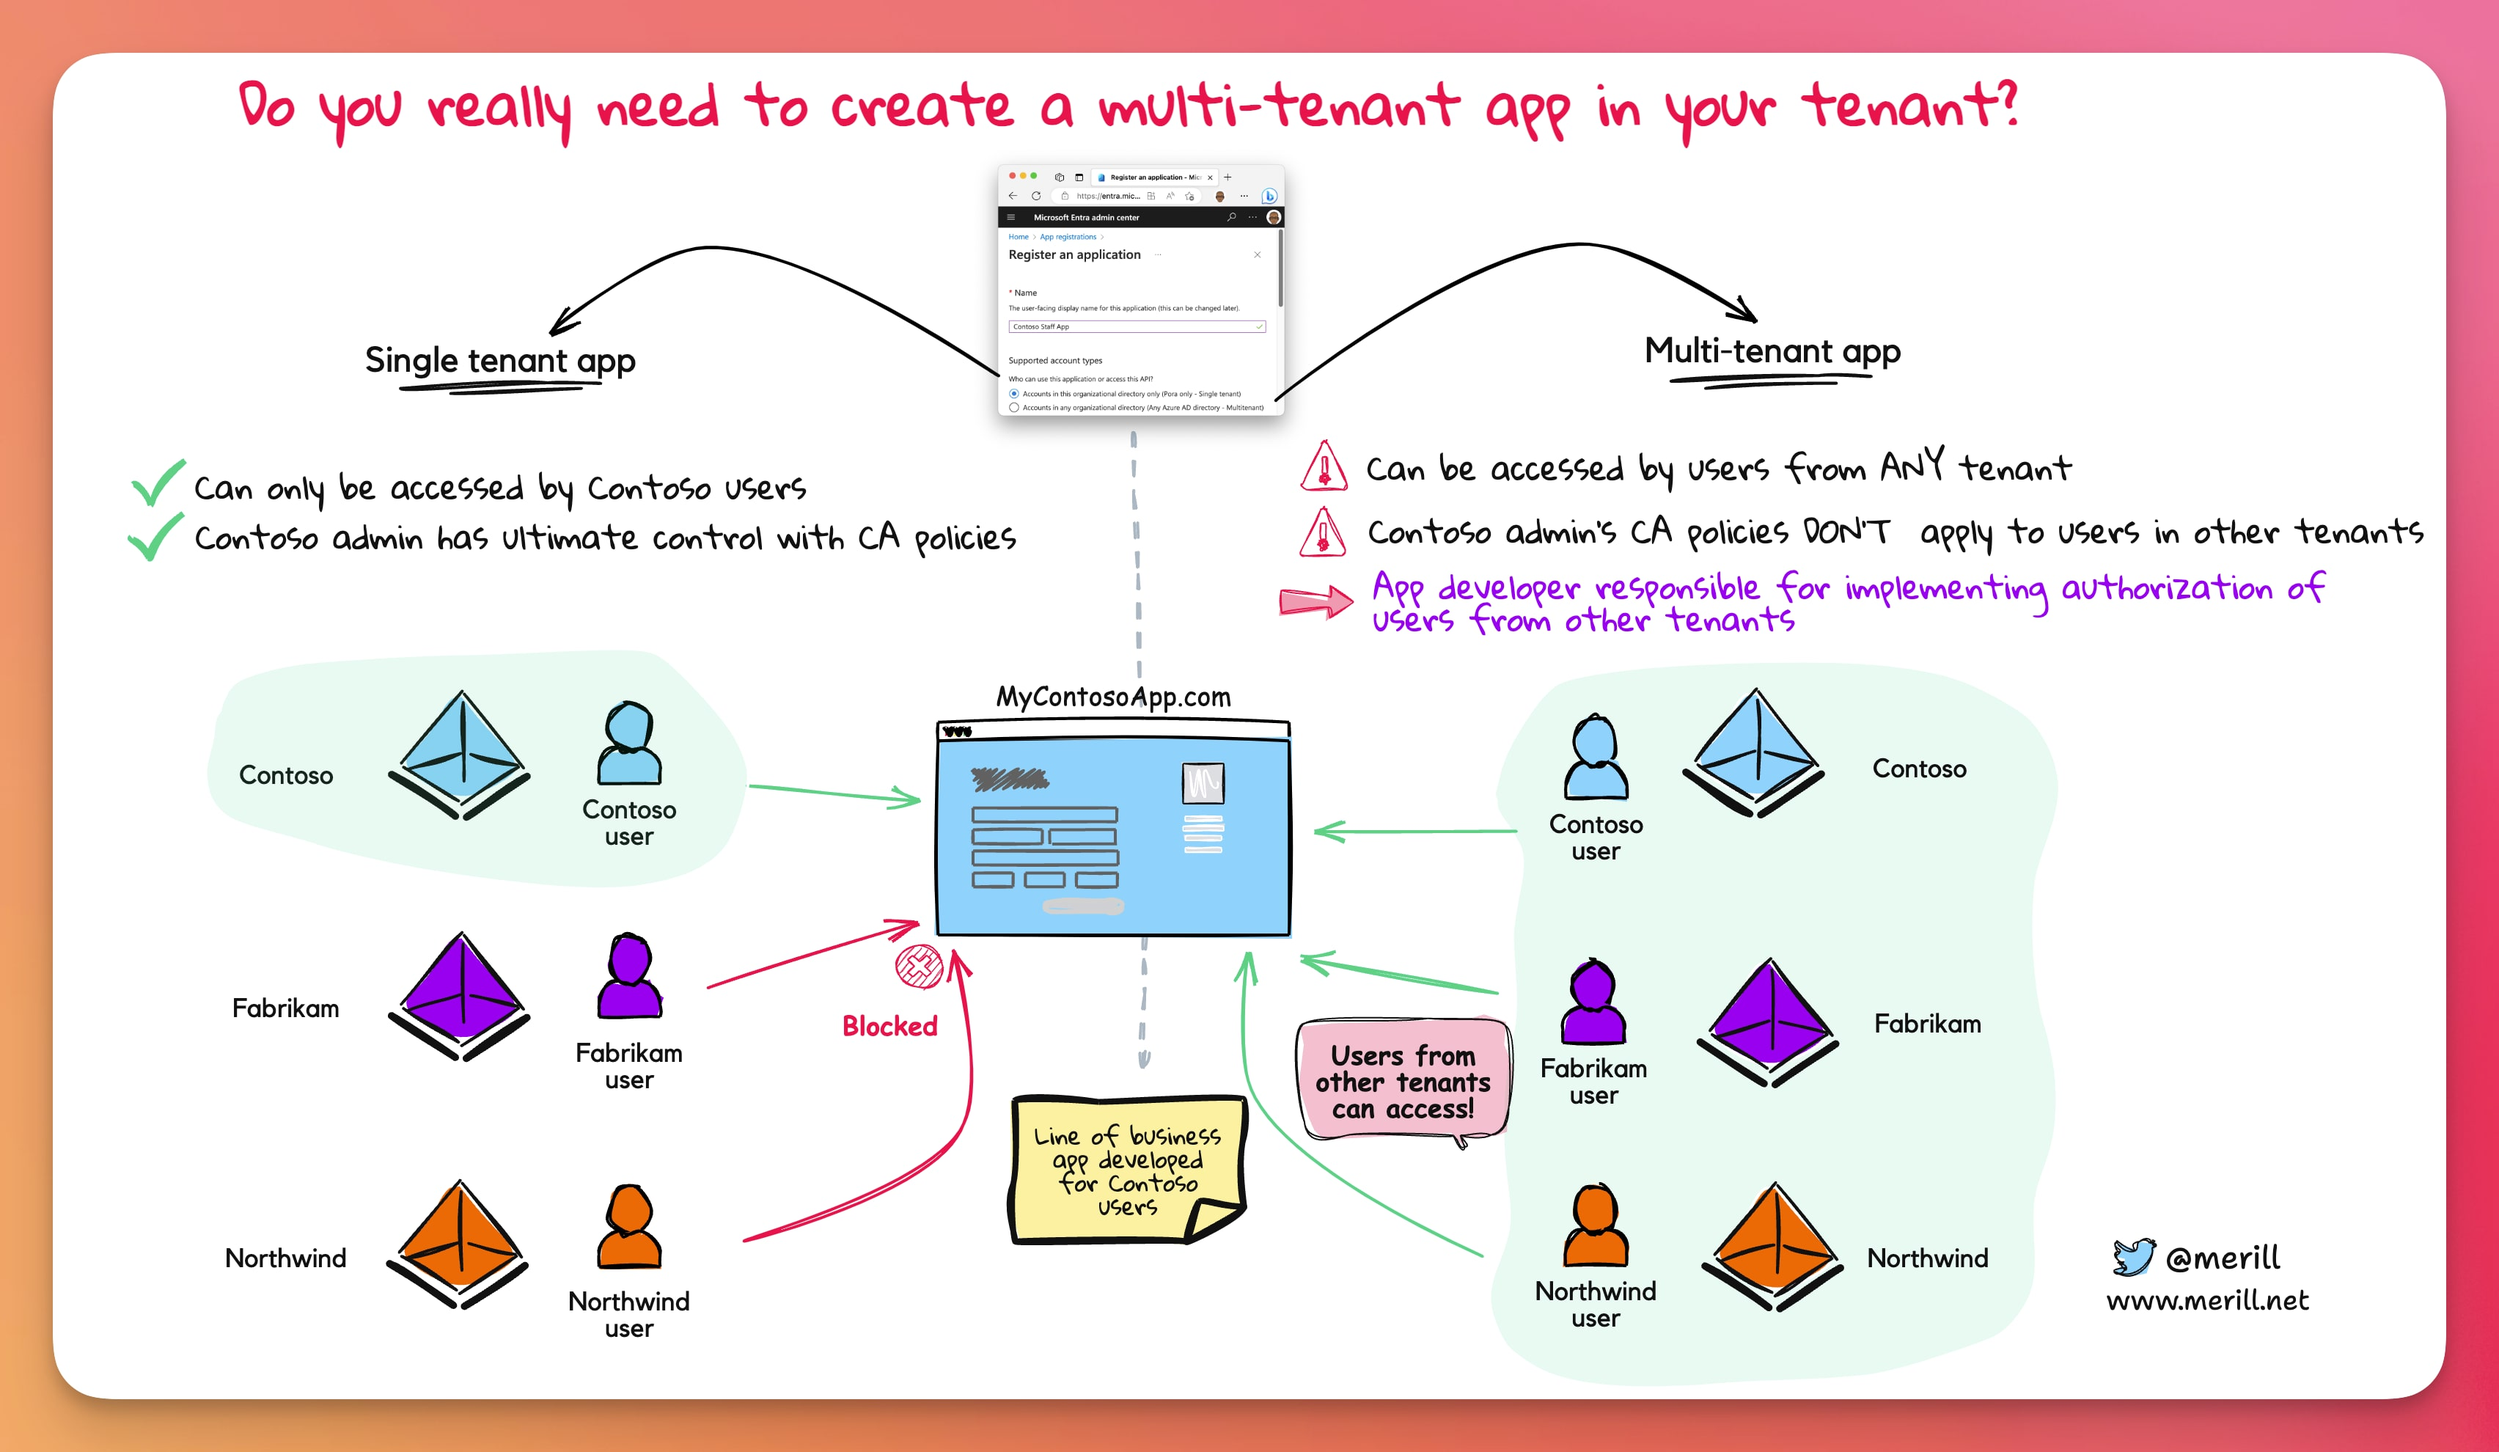
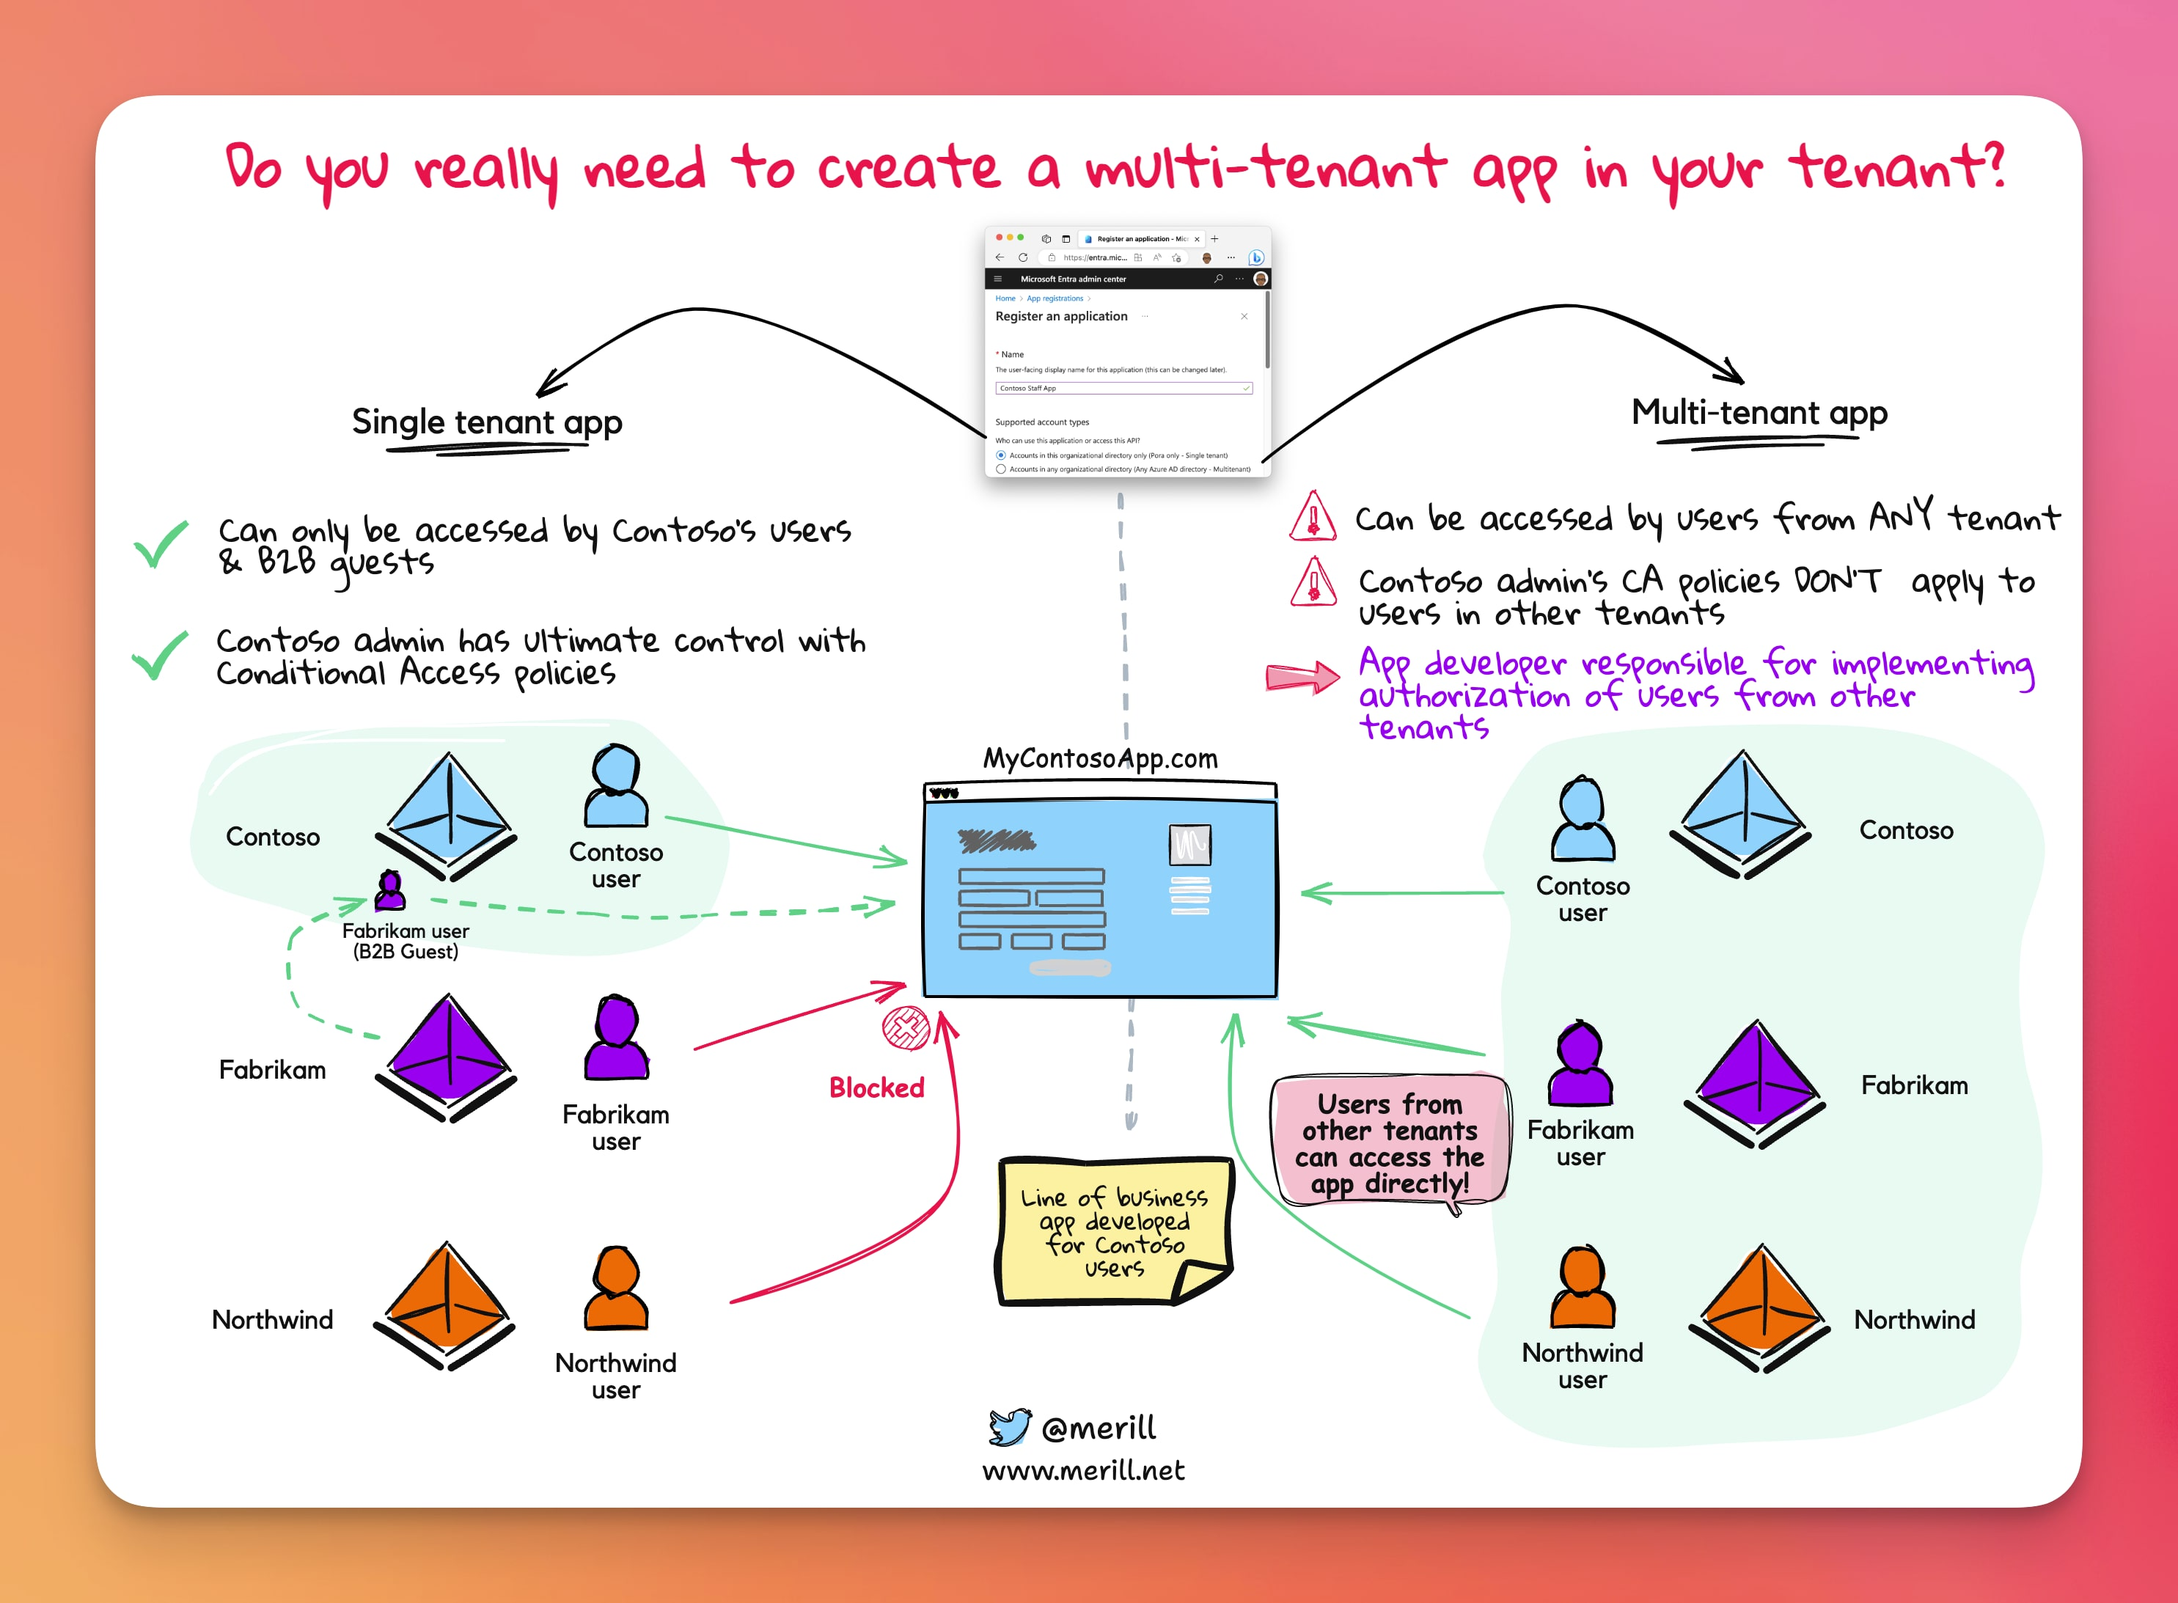
Added B2B guest

diff --git a/_posts/2023-04-03-azure-ad-multi-tenant-app-vs-single-tenant-app.md b/_posts/2023-04-03-azure-ad-multi-tenant-app-vs-single-tenant-app.md
@@ -16,7 +16,7 @@ Multi-tenant apps are meant for ISVs and SaaS vendors to create an instance of a
 
 When an app is created as a multi-tenant app, ANY user from ANY Azure AD tenant can visit the app's url and sign in.
 
-If you create a multi-tenant app in your corporate tenant and apply a conditional access policy. The policy only applies to users in your tenant.
+If you create a multi-tenant app in your corporate tenant and apply a conditional access policy. The policy only applies to users and guests in your tenant.
 
 ⚠ I'll repeat ➟ your CA policies do not apply to users signing into your multi-tenant app in their own tenant.
 
